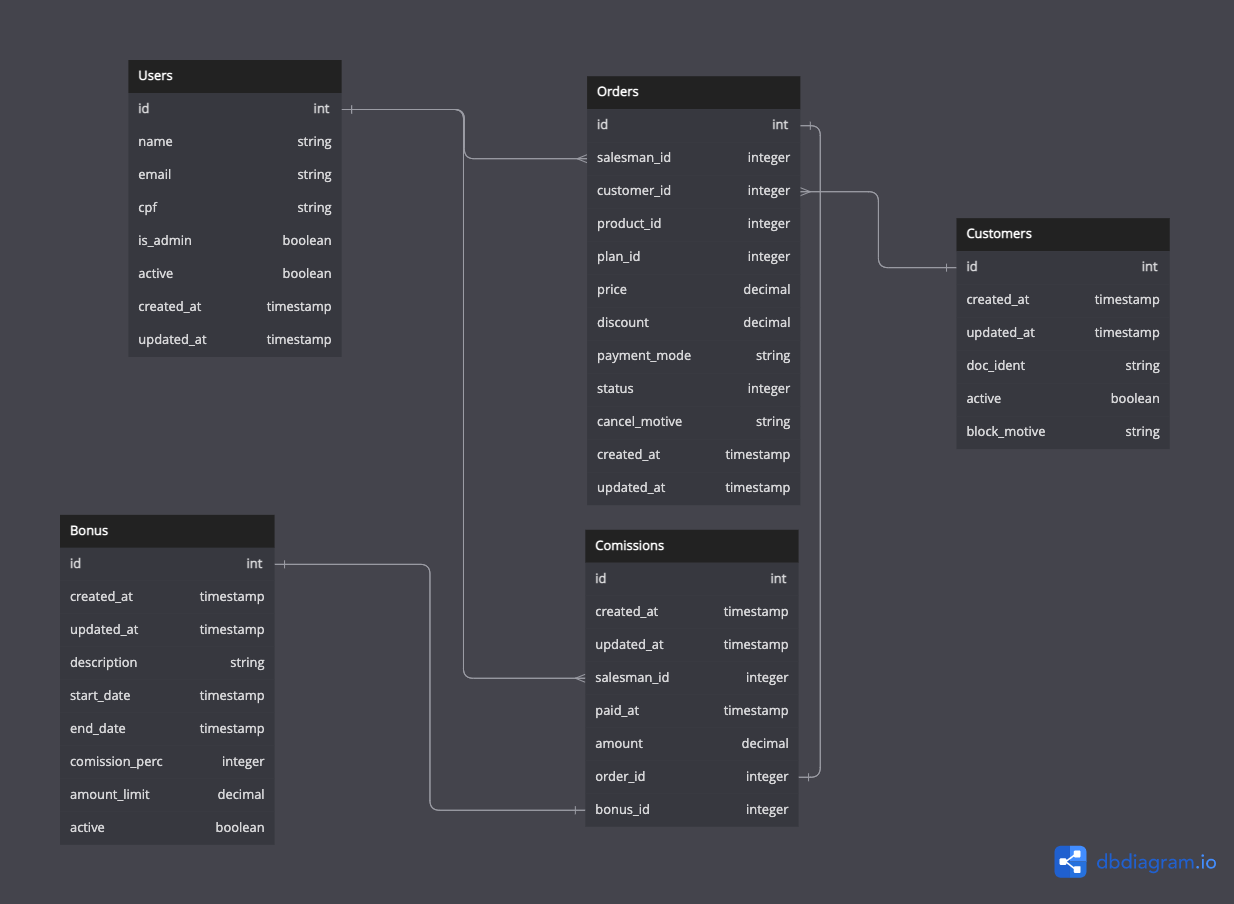
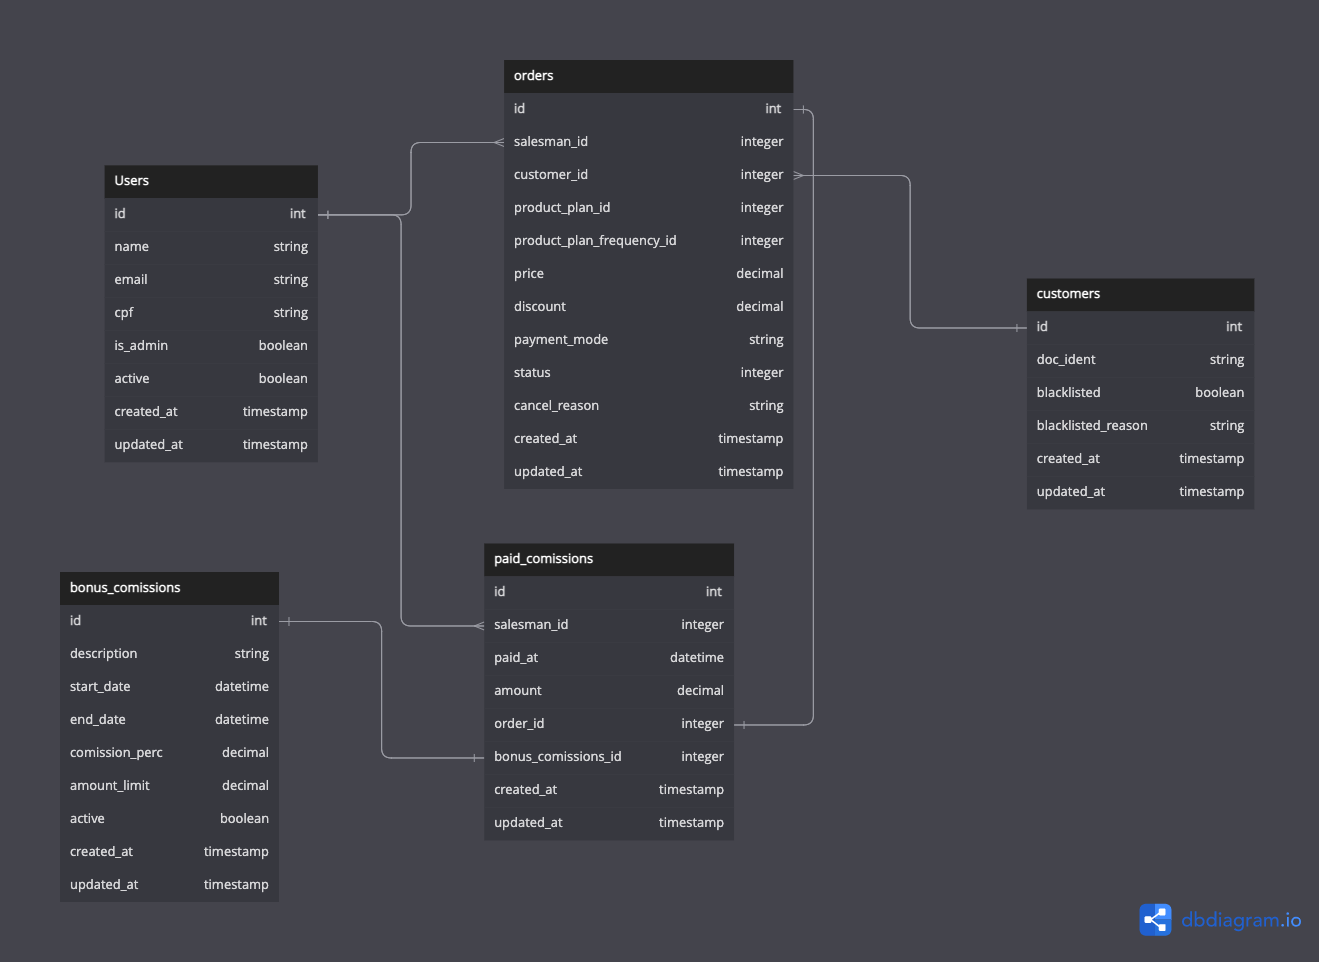
doc: database diagram update

diff --git a/README.md b/README.md
@@ -1,5 +1,8 @@
 # README
 
+## Database diagram:
+<img src="./documents/db.png">
+
 ## Instalação:
   - bin/setup
   - yarn install
